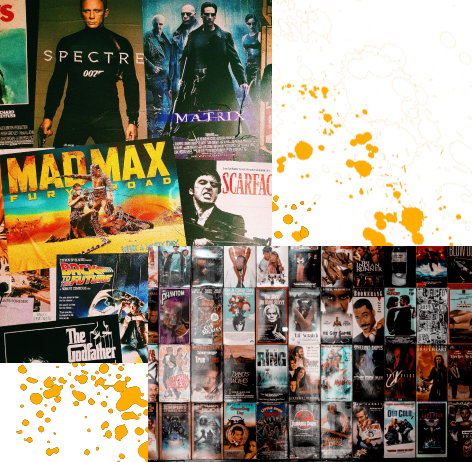
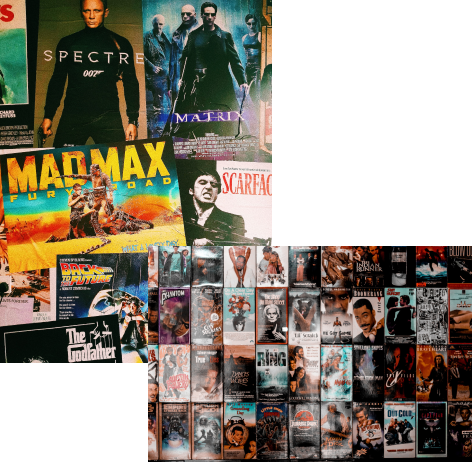
Agregado el archivo FriendCine

diff --git a/src/app/views/shared/landing-page/landing-page.component.html b/src/app/views/shared/landing-page/landing-page.component.html
@@ -17,7 +17,7 @@
     .melting-drops {
       position: relative;
       height: 100px;
-      background-color: #FFAD00;
+      background-color: #004aad;
       overflow: hidden;
     }
 
@@ -73,7 +73,7 @@
   <!--navigation bar-->
   <header>
       <a href="index.html">
-          <img src="..\assets\Brand.png" height="80" alt="FriendCine logo">
+          <img src="assets\pictures\icon_cinefriend_white.png" height="80" alt="CineFriend logo">
       </a>
       <button class="menu" aria-label="Open menu">
           <i class="fa-solid fa-bars fa-2xl"></i>
@@ -116,9 +116,9 @@
         <div class="hero-text">
           <br>
           <br>
-          <img src="https://i.postimg.cc/rwxpDpkr/HeroLogo.png" alt="herologo">
+          <img src="assets\pictures\icon_cinefriend_hero.png" alt="herologo" height="275px">
           <br>
-          <p style="color: black;">TuCine ofrece una diversidad de locaciones para <br>disfrutar esa película especial,
+          <p style="color: black;">CineFriend ofrece una diversidad de locaciones para <br>disfrutar esa película especial,
               conoce y organiza salidas <br> grupales con personas aficionadas al cine.</p>
           <br>
 
@@ -340,52 +340,47 @@
     <section id="AboutUs" class="AboutUs">
 
       <h1>Respaldado por un gran equipo</h1>
-      <h4>TUCINE es una Startup formada por un grupo de estudiantes de
+      <h4>CineFriend es una Startup formada por un grupo de estudiantes de
           la Universidad Peruana de Ciencias Aplicadas, quienes buscan soluciones para los diferentes problemas que
           pueden surgir en el día a día de las personas, a través de desarrollos tecnológicos creados por el equipo</h4>
 
-      <ul class="grid">
-          <li>
-              <div class="item"><img src="https://i.postimg.cc/7ZKTH6Mn/Tania2.png" alt="Tania"></div>
-              <h4>Tania Vasquez</h4>
-              <p>Únete a una comunidad de miembros comparten la misma pasión por el cine</p>
-          </li>
-          <li>
-              <div class="item"><img src="https://i.postimg.cc/yYVdDKNQ/Axel1.png" alt="Axel"></div>
-              <h4>Axel Fiestas</h4>
-              <p>La mejor plataforma para conocer personas y disfrutar de tus peliculas favoritas</p>
-          </li>
-
-          <li>
-              <div class="item"><img src="https://i.postimg.cc/hjrkwkqv/Yeni1.png" alt="Yeni"></div>
-              <h4>Yeni Alvarado</h4>
-              <p>Vive una experiencia única  disfrutando del séptimo arte, junto a nuevas personas</p>
-          </li>
-
-          <li>
-              <div class="item"><img src="https://i.postimg.cc/tT2cDFhV/Julio1.png" alt="Julio"></div>
-              <h4>Julio Moron</h4>
-              <p>Se parte de esta comunidad de cinéfilos e interactua con otras personas</p>
-          </li>
-
-          <li>
-              <div class="item"><img src="https://i.postimg.cc/7Ptc2MHF/Juan1.png" alt="Juan"></div>
-              <h4>Juan Navarro</h4>
-              <p>Una aplicación que reune personas apasionadas por el cine y que interactuen entre ellas</p>
-          </li>
-      </ul>
+          <ul class="grid">
+            <li>
+                <div class="item"><img src="assets\pictures\Juan.png" alt="Imagen3"></div>
+                <h4>Navarro Chacón,<br>Juan Jose</h4>
+            </li>
+            <li>
+                <div class="item"><img src="assets\pictures\Jose.png" alt="Imagen3"></div>
+                <h4>Chirito Torres,<br>Jose Raul</h4>
+            </li>
+    
+            <li>
+                <div class="item"><img src="assets\pictures\Erick.png" alt="Imagen3"></div>
+                <h4>Vasquez Goicochea,<br>Erick Alessander</h4>
+            </li>
+    
+            <li>
+                <div class="item"><img src="assets\pictures\Anthony.png" alt="Imagen3"></div>
+                <h4>Nuñez Martinez,<br>Anthony Samir</h4>
+            </li>
+    
+            <li>
+                <div class="item"><img src="assets\pictures\Gabriel.png" alt="Imagen3"></div>
+                <h4>Lapa de la Cruz,<br>Gabriel Omar</h4>
+            </li>
+        </ul>
 
     </section>
 <!--    form-->
   <section class="form" id="form">
 
   <div class="section1">
-      <img src="https://i.postimg.cc/L4WCX9vR/Group.png" alt="logo-brand">
+      <img src="assets\pictures\icon_cinefriend.png" alt="logo-brand">
       <h1 >Estamos para resolver <br> tus dudas</h1>
   </div>
 
   <div class="form-signup">
-      <h2>TuCine</h2>
+      <h2>CineFriend</h2>
 
       <input class="controls" type="text" placeholder="Nombre">
       <input class="controls" type="text" placeholder="Year or birth">
@@ -404,7 +399,7 @@
   <footer>
     <div class="footer-container">
       <div class="logo">
-        <img src="https://i.postimg.cc/mDzd3K2K/logo.png" alt="Tu Cine">
+        <img src="assets\pictures\icon_cinefriend_white.png" alt="Tu Cine">
       </div>
       <p class="slogan">Mira el mundo de manera diferente</p>
       <div class="explore">
@@ -429,8 +424,8 @@
       </div>
       <div class="footer-content">
         <div class="footer-info">
-          <p>&copy; 2023 Tu Cine. Todos los derechos reservados.</p>
-          <p>Contacto: info@tucine.com</p>
+          <p>&copy; 2023 CineFriend. Todos los derechos reservados.</p>
+          <p>Contacto: info@CineFriend.com</p>
           <p>Dirección: Calle Principal 123, Ciudad, País</p>
         </div>
       </div>

diff --git a/src/app/views/shared/landing-page/landing-page.component.scss b/src/app/views/shared/landing-page/landing-page.component.scss
@@ -5,7 +5,7 @@
   --black: #000000;
   --blacklight: #141414;
   --white: #eaeaea;
-  --primary-color:#FFAD00;
+  --primary-color:#004aad;
 }
 * {
   box-sizing: border-box;
@@ -47,7 +47,7 @@ header {
   justify-content: space-between;
   align-items: center;
   color: #FFFFFF;
-  background-color: #ffad00;
+  background-color: #004aad;
   padding: 10px 60px;
 
   @media (max-width: 1070px) {
@@ -63,7 +63,7 @@ li {
 }
 
 header button {
-  background-color: #FFAD00;
+  background-color: #004aad;
   color: #fff;
   padding: 10px 20px;
   border: none;
@@ -81,7 +81,7 @@ header button {
 
 header button:hover {
   background-color: #fff;
-  color: #FFAD00;
+  color: #004aad;
 }
 
 ul {
@@ -273,7 +273,7 @@ header nav ul li a {
 }
 
 .btn-hero {
-  background-color: #FFAD00;
+  background-color: #004aad;
   text-decoration: none;
   border-radius: 5px;
   color: #000000;
@@ -378,7 +378,7 @@ header nav ul li a {
   padding:10px;
   border-radius: 12px;
 
-  background-color: #FFAD00;
+  background-color: #004aad;
 
    color: #000000;
    font-weight: bold;
@@ -625,7 +625,7 @@ cursor:pointer;
   width: 100px;
   height: 50px;
   border-radius: 50px 50px 0 0;
-  background-color: #ffad00;
+  background-color: #004aad;
 }
 
 .description-heading {
@@ -645,7 +645,7 @@ cursor:pointer;
   align-items: center;
   justify-content: center;
   padding: 4px 8px;
-  background-color: #FFC107;
+  background-color: #004aad;
   color: #fff;
   border: none;
   border-radius: 3px;
@@ -659,7 +659,7 @@ cursor:pointer;
 
   &:hover {
     background-color: #fff;
-    color: #FFC107;
+    color: #004aad;
   }
 
   .btn-text {
@@ -991,7 +991,7 @@ footer .social-links:nth-last-of-type(3){
 }
 
 footer {
-  background-color: #FFAD00;
+  background-color: #004aad;
   padding: 20px;
   color: #555;
   font-size: 14px;

diff --git a/src/app/views/shared/user-election/user-election.component.scss b/src/app/views/shared/user-election/user-election.component.scss
@@ -13,7 +13,7 @@
   z-index: 1;
   font-size: 3rem; /* Cambiar el tamaño del texto según tus preferencias */
   font-weight: bold; /* Aplicar negrita al texto */
-  text-shadow: 2px 2px 4px #FFAD00; /* Agregar sombra al texto */
+  text-shadow: 2px 2px 4px #366adb; /* Agregar sombra al texto */
   text-align: center; /* Centrar el texto horizontalmente */
   padding: 1rem; /* Agregar un espacio interno alrededor del texto */
   background-color: rgba(0, 0, 0, 0.5);
@@ -44,7 +44,7 @@
 
 .example-card {
   max-width: 400px;
-  background-color: #ffae00;
+  background-color: #366adb;
 }
 
 .example-header-image-cinephil {
@@ -58,7 +58,7 @@
 }
 
 .register-button{
-  background-color: #FFAD00;
+  background-color: #366adb;
   color: white;
 }
 

diff --git a/src/app/components/client/auth/login/login.component.scss b/src/app/components/client/auth/login/login.component.scss
@@ -1,9 +1,9 @@
 .bt-login{
-    background-color: #FFAD00;
+    background-color: #366adb;
 
 }
 .login-button {
-  background-color: #ffc107;
+  background-color: #366adb;
   color: white;
   padding: 6px 12px;
   font-size: 12px;
@@ -19,7 +19,7 @@
 }
 
 .login-button:hover {
-  background-color: #ff9800;
+  background-color: #366adb;
 }
 
 
@@ -32,7 +32,7 @@
 }
 
 .mat-mdc-raised-button.mat-unthemed {
-    --mdc-protected-button-container-color: #FFAD00;
+    --mdc-protected-button-container-color: #366adb;
     --mdc-protected-button-label-text-color: #FFFF;
 }
 

diff --git a/src/app/components/client/auth/register/owner/register-owner.component.scss b/src/app/components/client/auth/register/owner/register-owner.component.scss
@@ -25,6 +25,6 @@
 }
 
 .mat-mdc-raised-button{
-    --mdc-protected-button-container-color: #FFAD00;
+    --mdc-protected-button-container-color: #366adb;
     --mdc-protected-button-label-text-color: #FFFF;
 }

diff --git a/src/app/components/shared/header/header.component.scss b/src/app/components/shared/header/header.component.scss
@@ -12,5 +12,5 @@
 }
 
 mat-icon{
-    color: #75746E;
+    color: #366adb;
 }
